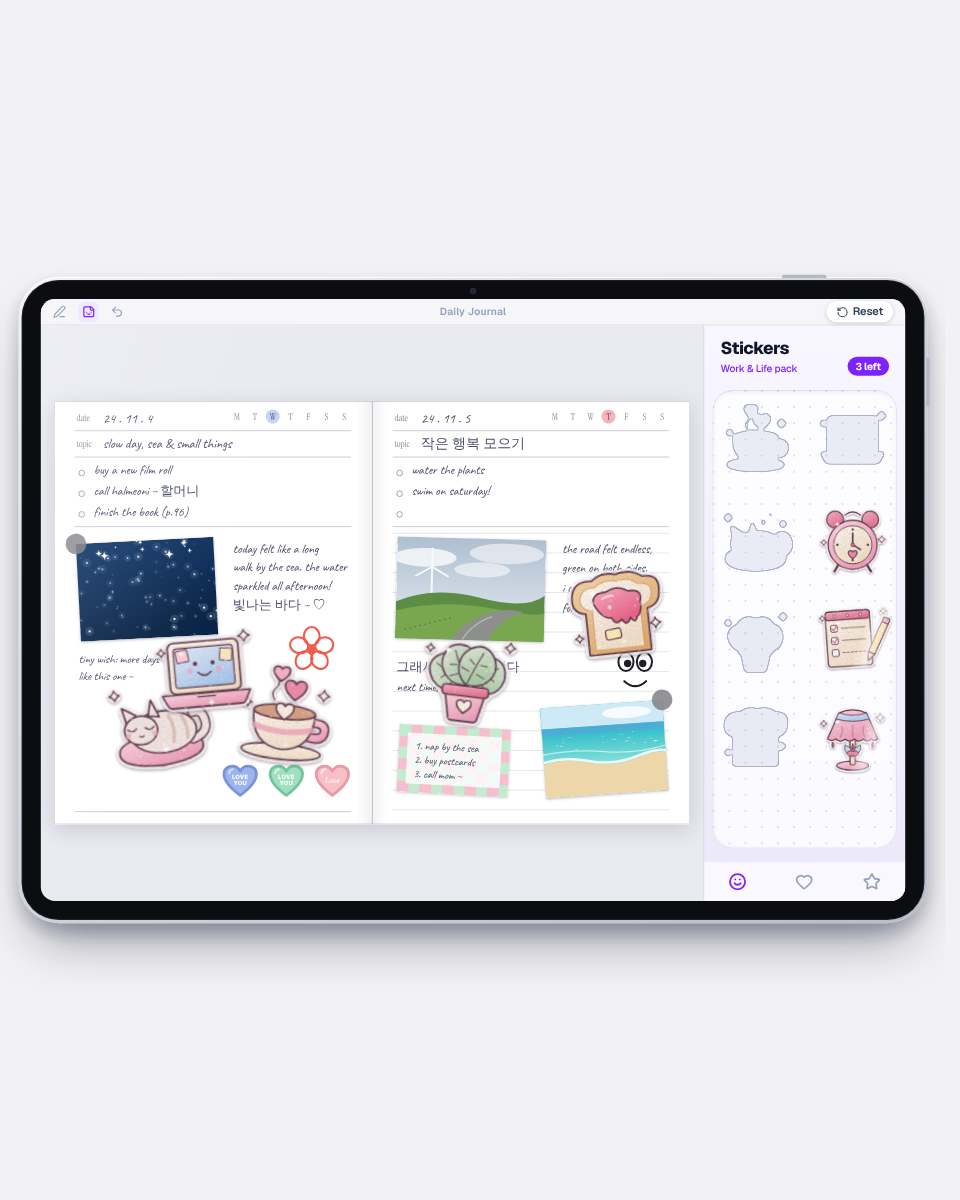
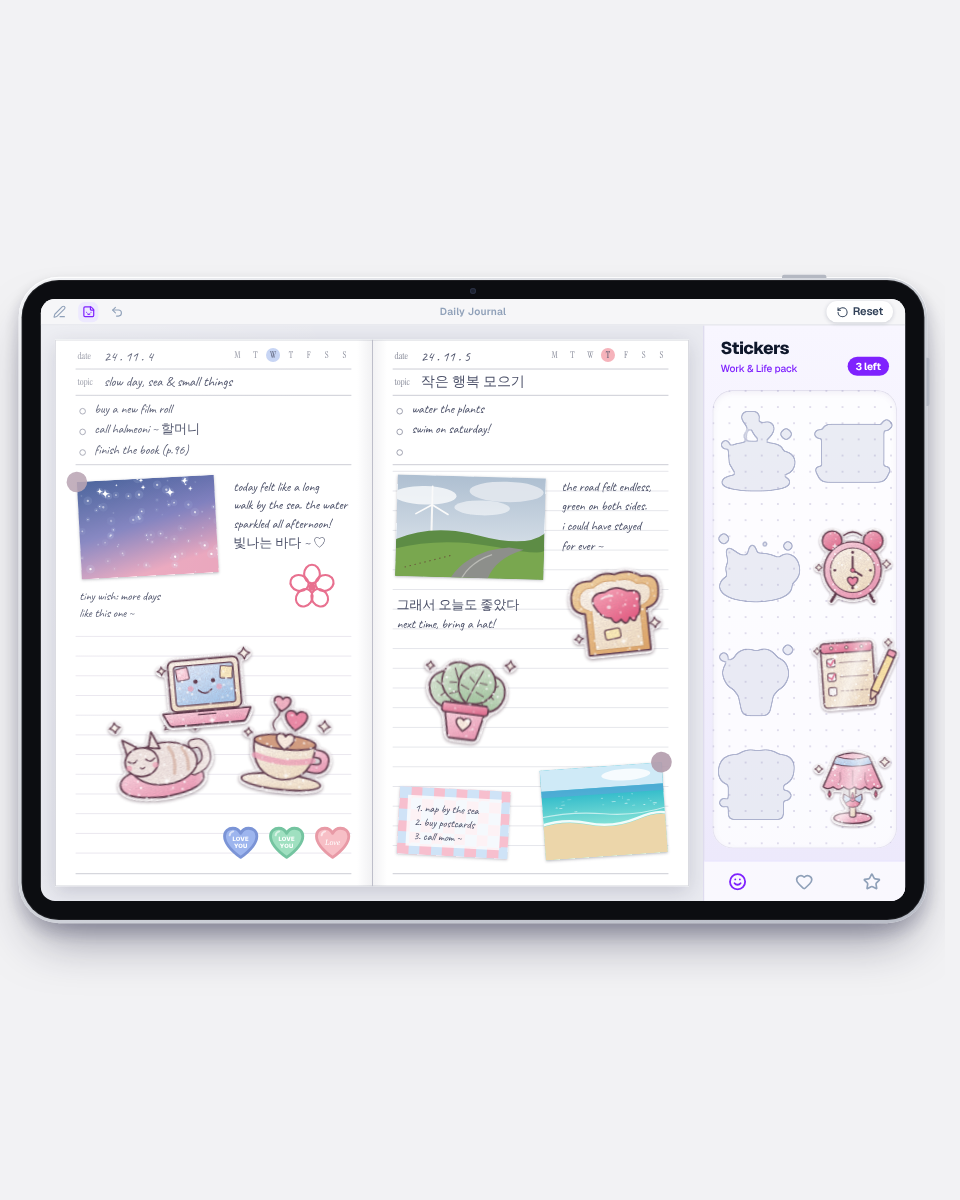
Fill the iPad with the journal spread and tune washi stickers
The spread now fills the screen height with extra ruled lines, panel
stickers are larger and fill four rows, the glitter is a little stronger
and the printed collage is retinted to the pink and powder-blue mood.

diff --git a/components/play/sticker-peel/sticker-peel.tsx b/components/play/sticker-peel/sticker-peel.tsx
@@ -53,7 +53,7 @@ export type StickerPeelProps = {
 /** Side of a sticker's square box, in scene units. */
 const S = 84;
 /** Scale of a sticker sitting in the panel's grid, in the hand, and stuck on the page. */
-const PANEL_S = 0.9;
+const PANEL_S = 1.05;
 const CARRY_S = 1.45;
 const PLACED_S = 1.3;
 
@@ -71,33 +71,41 @@ type Geometry = {
   paper: Rect;
   /** How much the 676 x 450 journal is scaled to fit. */
   jScale: number;
+  /** Height of the journal in its own units (it stretches to fill the glass). */
+  jH: number;
   /** The sticker panel, docked on the right of the glass. */
   panel: Rect;
   slots: { x: number; y: number }[];
 };
 
-/** The journal spread is drawn at this size, then scaled to the glass. */
+/** The journal spread is drawn 676 units wide; its height stretches to fill the glass. */
 const J_W = 676;
-const J_H = 450;
+const J_H_MIN = 450;
 const TOOLBAR = 26;
 const PANEL_W = 200;
+const MARGIN = 14;
 
 function geometry(open: boolean): Geometry {
   const ipad = { x: 10, y: 10, w: 900, h: 640 };
   const glass = { x: ipad.x + 22, y: ipad.y + 22, w: 856, h: 596 };
   const area = { x: glass.x, y: glass.y + TOOLBAR, w: glass.w - (open ? PANEL_W : 0), h: glass.h - TOOLBAR };
-  const jScale = Math.min(area.w / J_W, area.h / J_H) * 0.96;
-  const jw = J_W * jScale;
-  const jh = J_H * jScale;
-  const paper = { x: area.x + (area.w - jw) / 2, y: area.y + (area.h - jh) / 2, w: jw, h: jh };
+  // Fit the spread to the area's width, then give the pages as much height as the area has.
+  let jScale = (area.w - 2 * MARGIN) / J_W;
+  let jH = (area.h - 2 * MARGIN) / jScale;
+  if (jH < J_H_MIN) {
+    jH = J_H_MIN;
+    jScale = (area.h - 2 * MARGIN) / J_H_MIN;
+  }
+  const paper = { x: area.x + (area.w - J_W * jScale) / 2, y: area.y + MARGIN, w: J_W * jScale, h: jH * jScale };
   const panel = { x: glass.x + glass.w - PANEL_W, y: glass.y + TOOLBAR, w: PANEL_W, h: glass.h - TOOLBAR };
   // A closed panel slides off the glass; its stickers slide with it.
   const dx = open ? 0 : PANEL_W + 30;
+  const rowPitch = (panel.h - 64 - 52 - 16) / 4;
   const slots = Array.from({ length: 8 }, (_, i) => ({
     x: panel.x + (i % 2 === 0 ? 52 : 148) + dx,
-    y: panel.y + 114 + 98 * Math.floor(i / 2),
+    y: panel.y + 64 + 8 + rowPitch * (Math.floor(i / 2) + 0.5),
   }));
-  return { W: 920, H: 660, ipad, glass, area, paper, jScale, panel, slots };
+  return { W: 920, H: 660, ipad, glass, area, paper, jScale, jH, panel, slots };
 }
 
 /** Pleasant places to stick things, as fractions of the journal, with a rotation. */
@@ -467,12 +475,12 @@ const STICKERS: StickerDef[] = [
 /* Shared SVG filters                                                         */
 /* -------------------------------------------------------------------------- */
 
-const GLITTER = Array.from({ length: 22 }, (_, i) => ({
+const GLITTER = Array.from({ length: 34 }, (_, i) => ({
   x: (i * 17 + ((i * i) % 11) * 3) % 40,
   y: (i * 29 + ((i * 5) % 13) * 2) % 40,
-  r: 0.3 + (i % 4) * 0.16,
-  o: 0.45 + (i % 5) * 0.12,
-  pink: i % 3 === 0,
+  r: 0.36 + (i % 4) * 0.2,
+  o: 0.6 + (i % 5) * 0.1,
+  pink: i % 4 === 0,
 }));
 
 const WASHI_CSS =
@@ -504,8 +512,9 @@ function SharedFilters({ uid }: { uid: string }) {
       <style>{WASHI_CSS}</style>
       <defs>
         <linearGradient id={`${uid}-g-sea`} x1="0" y1="0" x2="0.4" y2="1">
-          <stop offset="0" stopColor="#12386b" />
-          <stop offset="1" stopColor="#0a2447" />
+          <stop offset="0" stopColor="#33508f" />
+          <stop offset="0.55" stopColor="#7c7cbc" />
+          <stop offset="1" stopColor="#eaa6bd" />
         </linearGradient>
         <linearGradient id={`${uid}-g-sky`} x1="0" y1="0" x2="0" y2="1">
           <stop offset="0" stopColor="#aebfd1" />
@@ -535,7 +544,7 @@ function SharedFilters({ uid }: { uid: string }) {
         {/* Fine glitter speckle */}
         <pattern id={`${uid}-p-glit`} width="40" height="40" patternUnits="userSpaceOnUse">
           {GLITTER.map((g, i) => (
-            <circle key={i} cx={g.x} cy={g.y} r={g.r} fill={g.pink ? "#ffd2e2" : "#ffffff"} opacity={g.o} />
+            <circle key={i} cx={g.x} cy={g.y} r={g.r} fill={g.pink ? "#fff1c2" : "#ffffff"} opacity={g.o} />
           ))}
         </pattern>
         <linearGradient id={`${uid}-g-shim`} x1="0" y1="0" x2="1" y2="0">
@@ -1136,7 +1145,7 @@ function Photo({ x, y, w, h, rot, children, pin }: { x: number; y: number; w: nu
       <svg viewBox="0 0 160 110" preserveAspectRatio="xMidYMid slice" width={w} height={h} style={{ display: "block", boxShadow: "0 1px 3px rgba(40,40,60,.3)" }} aria-hidden="true">
         {children}
       </svg>
-      {pinPos ? <span className="absolute size-[22px] rounded-full" style={{ ...pinPos, background: "rgba(128,128,134,.85)" }} /> : null}
+      {pinPos ? <span className="absolute size-[22px] rounded-full" style={{ ...pinPos, background: "rgba(176,152,170,.88)" }} /> : null}
     </div>
   );
 }
@@ -1182,20 +1191,21 @@ function PageHeader({ x, date, day, tone, topic, items }: { x: number; date: str
 
 function DoodleFlower({ x, y, size }: { x: number; y: number; size: number }) {
   return (
-    <svg className="absolute" style={{ left: x, top: y }} width={size} height={size} viewBox="0 0 60 60" fill="none" stroke="#EF5B4C" strokeWidth={2.4} strokeLinecap="round" strokeLinejoin="round" aria-hidden="true">
+    <svg className="absolute" style={{ left: x, top: y }} width={size} height={size} viewBox="0 0 60 60" fill="none" stroke="#E8708F" strokeWidth={2.4} strokeLinecap="round" strokeLinejoin="round" aria-hidden="true">
       {Array.from({ length: 5 }, (_, k) => {
         const a = (k * 2 * Math.PI) / 5 - Math.PI / 2;
         return <ellipse key={k} cx={30 + 15 * Math.cos(a)} cy={30 + 15 * Math.sin(a)} rx={9} ry={10.5} transform={`rotate(${(k * 72) % 360} ${30 + 15 * Math.cos(a)} ${30 + 15 * Math.sin(a)})`} />;
       })}
-      <circle cx={30} cy={30} r={3} fill="#EF5B4C" />
+      <circle cx={30} cy={30} r={3} fill="#E8708F" />
     </svg>
   );
 }
 
-function Journal({ uid }: { uid: string }) {
-  const ruled = Array.from({ length: 15 }, (_, i) => 140 + i * 21);
+function Journal({ uid, h }: { uid: string; h: number }) {
+  const ruled = Array.from({ length: Math.floor((h - 34 - 140) / 21) + 1 }, (_, i) => 140 + i * 21);
+  const ruledLeft = Array.from({ length: Math.floor((h - 34 - 316) / 21) + 1 }, (_, i) => 316 + i * 21);
   return (
-    <div className="absolute left-0 top-0 overflow-hidden bg-white" style={{ width: J_W, height: J_H }}>
+    <div className="absolute left-0 top-0 overflow-hidden bg-white" style={{ width: J_W, height: h }}>
       {/* page edges and gutter */}
       <div className="absolute inset-0" style={{ boxShadow: "inset 0 0 0 1px #d4d5dc" }} />
       <div className="absolute inset-y-0 w-px bg-[#c4c5cf]" style={{ left: J_W / 2 }} />
@@ -1213,15 +1223,19 @@ function Journal({ uid }: { uid: string }) {
       <DoodleFlower x={246} y={236} size={56} />
       <Hand x={26} y={268} size={13}>tiny wish: more days</Hand>
       <Hand x={26} y={286} size={13}>like this one ~</Hand>
-      <svg className="absolute" style={{ left: 176, top: 382 }} width={142} height={44} viewBox="0 0 142 44" aria-hidden="true">
+      {ruledLeft.map((y) => (
+        <div key={y} className="absolute h-px bg-[#e9e6ee]" style={{ left: 22, width: 294, top: y }} />
+      ))}
+      <svg className="absolute" style={{ left: 176, top: h - 68 }} width={142} height={44} viewBox="0 0 142 44" aria-hidden="true">
         <LoveHeart cx={22} cy={22} s={0.42} fill="#9DB5EE" stroke="#7b94d6" text />
         <LoveHeart cx={71} cy={22} s={0.42} fill="#9FE0C0" stroke="#74c4a0" text />
         <LoveHeart cx={120} cy={22} s={0.42} fill="#F7BFC6" stroke="#e89aa6" text={false} />
       </svg>
-      <div className="absolute h-px bg-[#c9cad3]" style={{ left: 22, width: 294, top: 436 }} />
+      <div className="absolute h-px bg-[#c9cad3]" style={{ left: 22, width: 294, top: h - 14 }} />
 
       {/* ---- right page ---- */}
       <PageHeader x={J_W / 2} date="24 . 11 . 5" day={3} tone="pink" topic="작은 행복 모으기" items={["water the plants", "swim on saturday!", ""]} />
+      <div className="absolute h-px bg-[#c9cad3]" style={{ left: J_W / 2 + 22, width: 294, top: h - 14 }} />
       {ruled.map((y) => (
         <div key={y} className="absolute h-px bg-[#e4e5ea]" style={{ left: J_W / 2 + 22, width: 294, top: y }} />
       ))}
@@ -1241,18 +1255,18 @@ function Journal({ uid }: { uid: string }) {
         <circle cx={40} cy={19} r={3.2} fill="#1f1f24" />
         <path d="M18 40 Q31 52 44 40" />
       </svg>
-      <Photo x={J_W / 2 + 182} y={322} w={130} h={96} rot={-4} pin="tr">
+      <Photo x={J_W / 2 + 182} y={h - 128} w={130} h={96} rot={-4} pin="tr">
         <BeachPhoto uid={uid} />
       </Photo>
       <div
         className="absolute"
         style={{
           left: J_W / 2 + 28,
-          top: 346,
+          top: h - 104,
           width: 118,
           height: 72,
           transform: "rotate(3deg)",
-          background: `conic-gradient(#f7bfce 25%, #c4ebd0 0 50%, #f7bfce 0 75%, #c4ebd0 0) 0 0 / 24px 24px`,
+          background: `conic-gradient(#f7bfce 25%, #cfe3f7 0 50%, #f7bfce 0 75%, #cfe3f7 0) 0 0 / 24px 24px`,
           boxShadow: "0 1px 3px rgba(40,40,60,.25)",
         }}
       >
@@ -1579,14 +1593,14 @@ export function StickerPeel({ loop = false, onChange, className }: StickerPeelPr
                 left: geo.paper.x - glass.x,
                 top: geo.paper.y - glass.y,
                 width: J_W,
-                height: J_H,
+                height: geo.jH,
                 transform: `scale(${geo.jScale})`,
                 transformOrigin: "0 0",
                 transition: slide,
                 boxShadow: "0 6px 20px rgba(40,40,70,.18)",
               }}
             >
-              <Journal uid={uid} />
+              <Journal uid={uid} h={geo.jH} />
             </div>
 
             {/* Sticker panel */}
